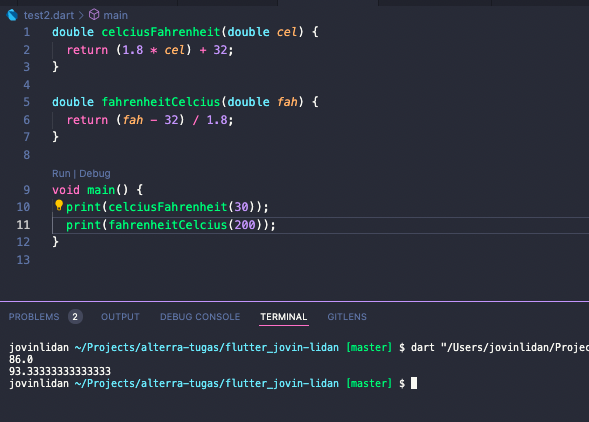
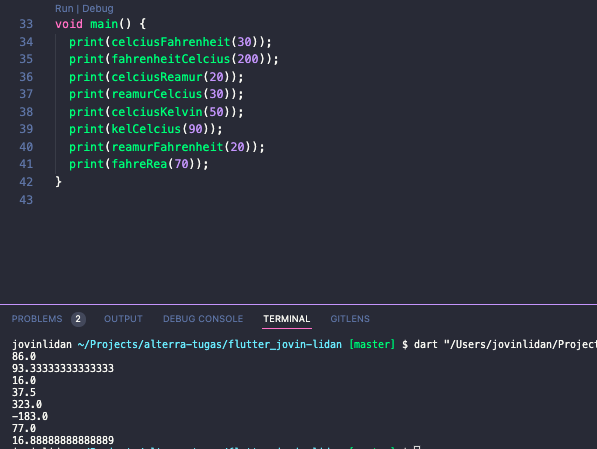
completed tugas

diff --git a/tempCodeRunnerFile.dart b/tempCodeRunnerFile.dart
@@ -1,0 +1,42 @@
+double celciusFahrenheit(double cel) {
+  return (1.8 * cel) + 32;
+}
+
+double fahrenheitCelcius(double fah) {
+  return (fah - 32) / 1.8;
+}
+
+double celciusReamur(double cel) {
+  return (4 / 5) * cel;
+}
+
+double reamurCelcius(double rea) {
+  return (5 / 4) * rea;
+}
+
+double celciusKelvin(double cel) {
+  return (cel + 273);
+}
+
+double kelCelcius(double kel) {
+  return kel - 273;
+}
+
+double reamurFahrenheit(double rea) {
+  return (9 / 4 * rea) + 32;
+}
+
+double fahreRea(double fah) {
+  return (4 / 9) * (fah - 32);
+}
+
+void main() {
+  print(celciusFahrenheit(30));
+  print(fahrenheitCelcius(200));
+  print(celciusReamur(20));
+  print(reamurCelcius(30));
+  print(celciusKelvin(50));
+  print(kelCelcius(90));
+  print(reamurFahrenheit(20));
+  print(fahreRea(70));
+}

diff --git a/8_Collection/tugas/tugas.md b/8_Collection/tugas/tugas.md
@@ -46,9 +46,10 @@
 
 10. - `text` : const, var, dan final
       text dapat menggunakan const dan final karena variabel tersebut tidak berubah.
+
     - `topping` : const, var, dan final
 
-      text dapat menggunakan const dan final karena variabel tersebut tidak berubah.
+      topping dapat menggunakan const dan final karena variabel tersebut tidak berubah.
 
     - `favourite`: var
     - `newText` : var, dan final.
@@ -63,12 +64,44 @@
     double celciusFahrenheit(double cel) {
         return (1.8 * cel) + 32;
     }
+
     double fahrenheitCelcius(double fah) {
         return (fah - 32) / 1.8;
     }
+
+    double celciusReamur(double cel) {
+        return (4 / 5) * cel;
+    }
+
+    double reamurCelcius(double rea) {
+        return (5 / 4) * rea;
+    }
+
+    double celciusKelvin(double cel) {
+        return (cel + 273);
+    }
+
+    double kelCelcius(double kel) {
+        return kel - 273;
+    }
+
+    double reamurFahrenheit(double rea) {
+        return (9 / 4 * rea) + 32;
+    }
+
+    double fahreRea(double fah) {
+        return (4 / 9) * (fah - 32);
+    }
+
     void main() {
         print(celciusFahrenheit(30));
         print(fahrenheitCelcius(200));
+        print(celciusReamur(20));
+        print(reamurCelcius(30));
+        print(celciusKelvin(50));
+        print(kelCelcius(90));
+        print(reamurFahrenheit(20));
+        print(fahreRea(70));
     }
     ```
 
